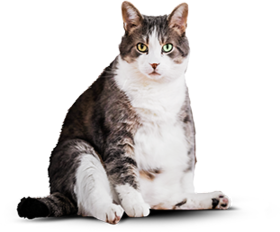
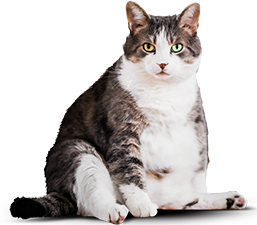
Изменения в секции рэндж

diff --git a/source/index.html b/source/index.html
@@ -176,28 +176,27 @@
   <section class="page-main__example-section">
     <div class="example-section">
       <h2 class="page-main__title example-section__title">Живой пример</h2>
-      <div class="example-section__range-content">
+      <div class="example-section__content">
         <div class="range-content">
           <div class="range-content__wrapper">
             <p class="range-content__lead">Борис сбросил 5 кг за 2 месяца, просто заменив свой обычный корм на Cat
               Energy Slim. Отличный результат без изнуряющих тренировок! При этом он не менял своих привычек и
-              по-прежнему
-              спит по 16 часов в день.</p>
-            <div class="range-content__description-list-container">
-              <dl class="diet-totals-indicators-list">
-                <div class="diet-totals-indicators-list__group-values diet-indicators-block">
-                  <dd class="diet-indicators-block__definition">5 кг</dd>
-                  <dt class="diet-indicators-block__term">Снижение веса</dt>
-                </div>
-                <div class="diet-totals-indicators-list__group-values diet-indicators-block">
-                  <dd class="diet-indicators-block__definition">60 дней</dd>
-                  <dt class="diet-indicators-block__term">Затрачено времени</dt>
-                </div>
-                <div class="diet-totals-indicators-list__value">
-                  <dt class="diet-totals-indicators-list__definition">Затраты на питание:</dt>
-                  <dd class="diet-totals-indicators-list__term">15 000 руб.</dd>
-                </div>
-              </dl>
+              по-прежнему спит по 16 часов в день.</p>
+            <div class="range-content__results-list">
+              <ul class="diet-results-list">
+                <li class="diet-results-list__item diet-indicators-block">
+                  <span class="diet-indicators-block__definition">5 кг</span>
+                  <span class="diet-indicators-block__term">Снижение веса</span>
+                </li>
+                <li class="diet-results-list__item diet-indicators-block">
+                  <span class="diet-indicators-block__definition">60 дней</span>
+                  <span class="diet-indicators-block__term">Затрачено времени</span>
+                </li>
+                <li class="diet-results-list__item diet-indicators-item">
+                  <span class="diet-indicators-item__definition">Затраты на питание:</span>
+                  <span class="diet-indicators-item__term">15 000 руб.</span>
+                </li>
+              </ul>
             </div>
             <div class="range-content__demo-part-wrapper">
               <div class="range-example">

diff --git a/source/sass/blocks/diet-indicators-block.scss b/source/sass/blocks/diet-indicators-block.scss
@@ -1,9 +1,11 @@
 .diet-indicators-block {
-  border: 1px solid $border-range;
-  border-radius: 5px;
   position: relative;
   text-align: center;
+  border-radius: 5px;
+  box-sizing: border-box;
   width: 124px;
+  padding: 13px 13px 14px;
+  border: 1px solid $border-range;
 
   @media (min-width: $tablet-width) {
     width: 162px;
@@ -46,5 +48,48 @@
 
   @media (min-width: $desktop-width) {
     background-color: $basic-grey;
+  }
+}
+
+.diet-indicators-item {
+  text-align: center;
+  grid-column: 1 / -1;
+
+  @media (min-width: $tablet-width) {
+    grid-column: 3 / -1;
+    justify-self: end;
+    text-align: end;
+  }
+
+  @media (min-width: $desktop-width) {
+    grid-column: 1 / -1;
+    justify-self: start;
+  }
+}
+
+.diet-indicators-item__definition,
+.diet-indicators-item__term {
+  font-family: "Oswald", "Arial", sans-serif;
+  color: $basic-black;
+  font-size: 14px;
+  line-height: 20px;
+  text-transform: uppercase;
+
+  @media (min-width: $tablet-width) {
+    display: block;
+    font-size: 20px;
+    line-height: 20px;
+    padding-bottom: 10px;
+  }
+
+  @media (min-width: $desktop-width) {
+    display: inline-block;
+    padding: 0;
+  }
+}
+
+.diet-indicators-item__term {
+  @media (min-width: $desktop-width) {
+    margin-left: 63px;
   }
 }

diff --git a/source/sass/blocks/range-content.scss b/source/sass/blocks/range-content.scss
@@ -1,14 +1,16 @@
 .range-content__wrapper {
   @media (min-width: $desktop-width) {
-    max-width: 1220px;
-    padding: 0 10px;
-    margin: 0 auto;
+    display: grid;
+    grid-template-columns: 1fr 1fr;
+    grid-template-rows: max-content max-content;
+    row-gap: 69px;
     position: relative;
   }
 }
 
 .range-content__lead {
-  margin: 0 0 25px;
+  margin: 0;
+  padding: 0 0 25px;
 
   @media (min-width: $tablet-width) {
     font-size: 16px;
@@ -19,12 +21,21 @@
 
   @media (min-width: $desktop-width) {
     max-width: 436px;
-    margin: 0 0 69px;
+    margin: 0;
     padding: 0;
   }
 }
 
-.range-content__description-list-container {
+.range-content__demo-part-wrapper {
+  @media (min-width: $desktop-width) {
+    grid-column: 2 / 3;
+    grid-row: 1 / -1;
+    position: absolute;
+    top: -74%;
+  }
+}
+
+.range-content__results-list {
   margin: 0 0 42px 0;
 
   @media (min-width: $tablet-width) {
@@ -33,6 +44,7 @@
   }
 
   @media (min-width: $desktop-width) {
+    grid-column: 1 /2;
     max-width: 366px;
     padding-bottom: 0;
   }

diff --git a/source/sass/blocks/diet-results-list.scss b/source/sass/blocks/diet-results-list.scss
@@ -1,0 +1,41 @@
+.diet-results-list {
+  @include resetting-styles-list;
+  display: grid;
+  column-gap: 33px;
+  row-gap: 34px;
+  margin: 0;
+  grid-template-columns: repeat(2, 1fr);
+
+  @media (min-width: $tablet-width) {
+    padding: 0 30px;
+    column-gap: 40px;
+    grid-template-columns: repeat(2, max-content) 1fr;
+  }
+
+  @media (min-width: $desktop-width) {
+    padding: 0;
+    row-gap: 55px;
+    grid-template-columns: repeat(2, 1fr);
+  }
+}
+
+.diet-results-list__value {
+  grid-column: 1 / -1;
+  display: flex;
+  justify-content: center;
+
+  @media (min-width: $tablet-width) {
+    grid-column: -2 / -1;
+    padding-top: 10px;
+    display: block;
+    text-align: end;
+  }
+
+  @media (min-width: $desktop-width) {
+    padding: 0;
+    grid-column: 1 / -1;
+    display: flex;
+    justify-content: flex-start;
+  }
+}
+

diff --git a/source/sass/blocks/range-example.scss b/source/sass/blocks/range-example.scss
@@ -9,16 +9,13 @@
 
   @media (min-width: $desktop-width) {
     padding-bottom: 0;
-    position: absolute;
     background-color: inherit;
-    top: -84%;
-    left: 36%;
   }
 }
 
 .range-example__image-wrapper {
   text-align: center;
-  margin: 0 0 25px;
+  margin: 0 23px 34px 0;
 
   @media (min-width: $tablet-width) and (max-width: 1439px) {
     margin: 0;
@@ -46,7 +43,7 @@
 
   @media (min-width: $desktop-width) {
     width: 584px;
-    left: 65%;
-    bottom: -14%;
+    left: 71%;
+    bottom: -27%;
   }
 }

diff --git a/source/sass/style.scss b/source/sass/style.scss
@@ -18,7 +18,7 @@
 @import "blocks/advantage-card.scss";
 @import "blocks/example-section.scss";
 @import "blocks/range-content.scss";
-@import "blocks/diet-totals-indicators-list.scss";
+@import "blocks/diet-results-list.scss";
 @import "blocks/diet-indicators-block.scss";
 @import "blocks/range-example";
 @import "blocks/range-demo-slider.scss";

diff --git a/source/sass/blocks/example-section.scss b/source/sass/blocks/example-section.scss
@@ -1,9 +1,10 @@
-.example-section__range-content {
+.example-section__content {
   @media (min-width: $desktop-width) {
     background-color: $basic-grey;
     box-sizing: border-box;
     min-height: 462px;
-    padding: 70px 0 0;
+    padding: 70px 110px;
+    height: 462px;
   }
 }
 
